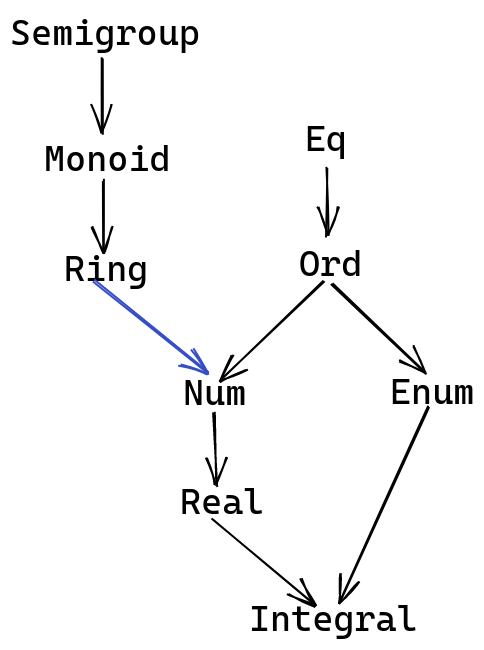
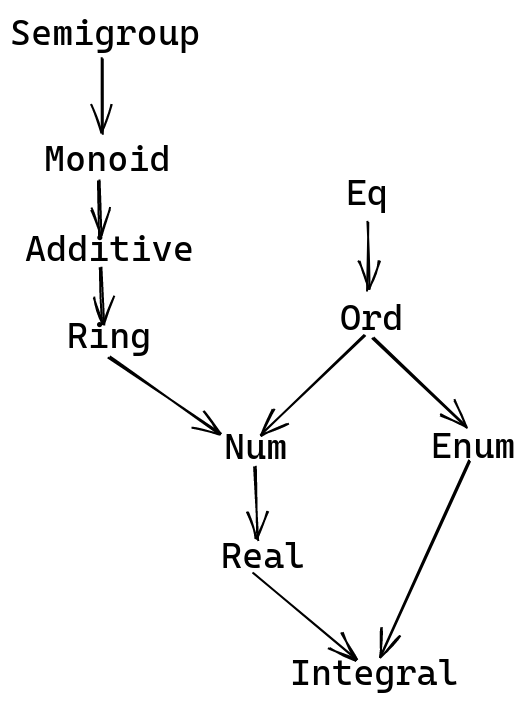
WIP: Numeric classes post

diff --git a/content/posts/2021/02/thoughts-on-numeric-classes/index.md b/content/posts/2021/02/thoughts-on-numeric-classes/index.md
@@ -10,29 +10,167 @@ tags:
 
 <!--more-->
 
-# Choosing Instances
-
-## Newtype Selectors
-
 # Haskell's Hierarchy
 
+Here's an overview of Haskell's hierarchy of typeclasses
 {{<img "1.png">}}
+
+You can see the different typeclasses involved, and the dependencies
+linking all of them together.
 
 ## Eq
 
+The first class is [`Eq`](https://hackage.haskell.org/package/base-4.14.1.0/docs/Data-Eq.html),
+giving us decideable equality for a type:
+
+```haskell
+class Eq a where
+  (==) :: a -> a -> a
+```
+
+Naturally, this defines the `==` operator we all know and love. This
+must be an equivalence relation, satisfying:
+
+```haskell
+x == x
+x == y -> y == x
+x == y, y = z -> x = z
+```
+
 ## Ord
+
+Then you have [`Ord`](https://hackage.haskell.org/package/base-4.14.1.0/docs/Data-Ord.html),
+which augments `Eq` with comparisons:
+
+```haskell
+class Eq a => Ord a where
+  compare :: a -> a -> Ordering
+```
+
+(I've simplified things a bit here)
+
+And the `Ordering` type is a simple enumeration:
+
+```haskell
+data Ordering = LT | EQ | GT
+```
+
+It's clear that `Ord` should entail `Eq`, since we can just check whether
+compare returns `EQ` for equality.
+
+Using `compare`, the standard comparison operators `<, >, <=, >=` can all be provided.
+While `Ord` doesn't specify any laws itself, it's common to assume that `<=` is
+a partial order, satisfying:
+
+```haskell
+x <= x
+x <= y, y <= z -> x <= z
+```
 
 ## Semigroup
 
+Now we get to the "algebraic" classes.
+
+The first of these is [`Semigroup`](https://hackage.haskell.org/package/base-4.14.1.0/docs/Data-Semigroup.html):
+
+```haskell
+class Semigroup a where
+  (<>) :: a -> a -> a
+```
+
+The only thing we assume about this operator is its associtivity:
+
+```haskell
+a <> (b <> c) = (a <> b) <> c
+```
+
 ## Monoid
+
+[`Monoid`](https://hackage.haskell.org/package/base-4.14.1.0/docs/Data-Monoid.html)
+augments the `Semigroup` class with an identity element:
+
+```haskell
+class Semigroup  a => Monoid a where
+  mempty :: a
+```
+
+This element satisfies:
+
+```haskell
+x <> mempty = x
+mempty <> x = x
+```
 
 ## Enum
 
+Next, we have the [`Enum`](https://hackage.haskell.org/package/base-4.14.1.0/docs/Prelude.html#t:Enum) class:
+
+```haskell
+class Enum a where
+  toEnum :: Int -> a
+  fromEnum :: a -> Int
+```
+
+The main purpose of this class is to provide semantics for the
+`[a..b]` syntax, otherwise this is more of a pragmatic class, instead of
+one with some underlying algebraic idea.
+
 ## Num
+
+And now we have the infamous [`Num`](https://hackage.haskell.org/package/base-4.14.1.0/docs/Prelude.html#t:Num) class:
+
+```haskell
+class Num a where
+  (+) :: a -> a -> a
+  (*) :: a -> a -> a
+  negate :: a -> a
+  abs :: a -> a
+  signum :: a -> a
+  fromInteger :: Integer -> a
+```
+
+This is a big amalgamation of everything you'd expect numbers to be, and
+then some more. The main purpose of this is to interpret the operators
+mentioned here, including `-` as well, and to interpret numeric literals,
+like `3`, or `420`, using the `fromInteger` method.
+
+In my opinion, this class is pretty ugly, and perhaps my central motivation
+in wanting to think about some ways to reform this hierarchy.
 
 ## Real
 
+Now, you have another ad-hoc class, called [`Real`](https://hackage.haskell.org/package/base-4.14.1.0/docs/Prelude.html#t:Num):
+
+```haskell
+class (Num a, Ord a) => Real a where
+  toRational :: a -> Rational
+```
+
+I confess that I've never used this class all that much. Ostensibly,
+its purpose is just to provide a means to convert some type into
+rational numbers, which provides a direct means for comparision,
+hence the `Ord` instance.
+
+If we can think of elements of a type as being rational numbers, it'd make
+sense to also stipulate that they're numbers, using the inferred operations.
+The `Num` requirement makes sense, under this interpretation.
+
 ## Integral
+
+Finally, we have the [`Integral`](https://hackage.haskell.org/package/base-4.14.1.0/docs/Prelude.html#t:Integral)
+class:
+
+```haskell
+class (Real a, Enum a) => Integral a where
+  quotRem :: a -> a -> (a, a)
+  toInteger :: a -> Integer
+```
+
+(Simplifying a bit here, but these form a complete definition).
+
+Basically, this is for types that are equivalent to integers, and we have the
+corresponding division operations we expect to have for integers:
+`mod, div` et alii.
 
 # Interlude: Two Worlds
 
@@ -51,6 +189,8 @@ tags:
 ## Additive
 
 ## Ring
+
+### Choosing Instances
 
 ## Num
 
